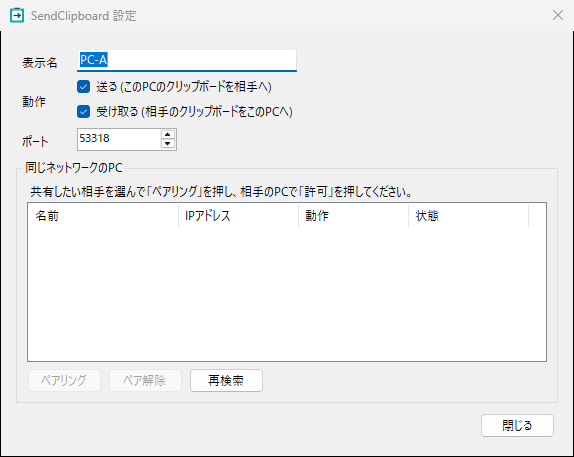
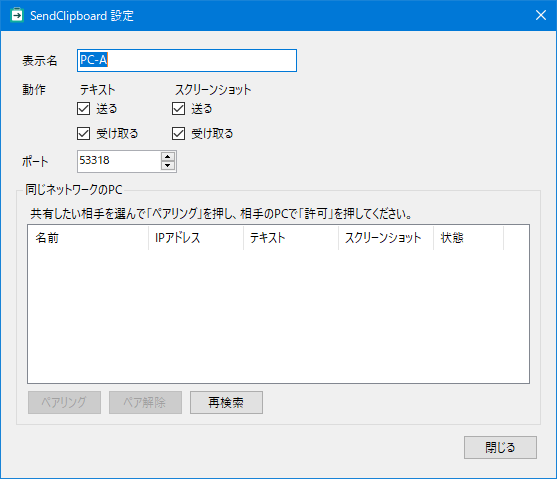
README にスクリーンショット送信の説明を追加し、設定画面の画像を更新。

Changed region(s): [[0.0, 0.0, 1.0, 0.8884], [0.0, 0.8884, 1.0, 1.0]]

diff --git a/README.md b/README.md
@@ -4,14 +4,16 @@
 [PowerToys Mouse Without Borders](https://learn.microsoft.com/windows/powertoys/mouse-without-borders) のクリップボード共有を参考に、クリップボード転送だけを独立させたものです。  
 LAN 内の探索とペアリングは [LocalSend](https://github.com/localsend/localsend) の方式を参考にしています。
 
-テキストデータだけを転送します。
+テキストデータと、タスクトレイから選んだウインドウのスクリーンショットを転送します。
 
 ## 使い方
 1. 共有したいPCすべてで `SendClipboard.exe` を起動する (初回は設定画面が開く)
-2. 「動作」で「送る」「受け取る」を選択
+2. 「動作」で「テキスト」「スクリーンショット」それぞれの「送る」「受け取る」を選択
 3. 「同じネットワークのPC」に一覧が出るので、共有したい相手を選んで「ペアリング」
 4. 相手のPCに確認コード付きの許可ダイアログが出る。両方の画面のコードが同じなら「許可」
 5. 以後、ペア済みで「受け取る」が有効な相手へ、コピーした内容が自動で送られる
+6. スクリーンショットは、トレイメニューの「ウインドウのスクリーンショットを送る」から対象のウインドウを選ぶと、
+   スクリーンショットの「受け取る」が有効な相手のクリップボードへ画像として送られる
 
 ![設定画面](docs/images/settings.png)
 
@@ -31,7 +33,7 @@ LAN 内の探索とペアリングは [LocalSend](https://github.com/localsend/l
   同じサブネット内のPCだけが対象。
 - **ペアリング**: 相手を選んで許可すると、以後その2台の間で転送できるようになる。
 - **転送**: ペア済みの相手とだけ行う。両PCの時計は合わせておくこと。
-- 対応形式: **テキスト**のみ
+- 対応形式: **テキスト**、**画像** (ウインドウのスクリーンショット、PNG)
 - ポートは全PCで同じ値にする
 
 ## 設定・ログ
